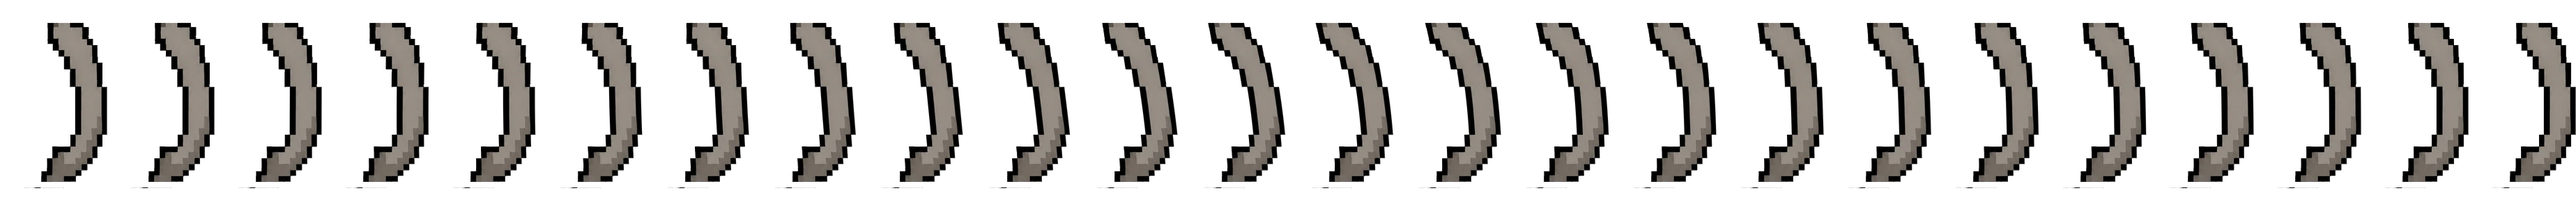
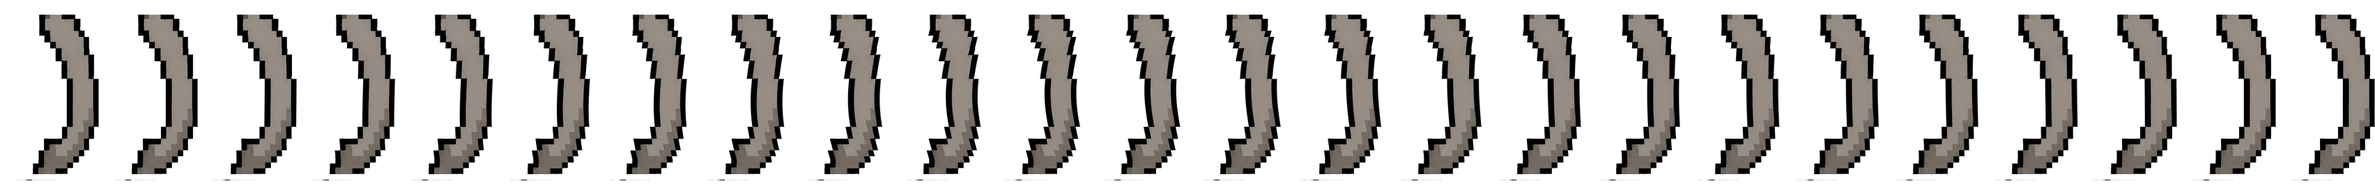
fix(tail): both ends of this tail are joints, and the bend was swinging one of them
"the top of his tail is cut". It was. ErenCook_tail.png is a C whose two ends
DISAPPEAR BEHIND THE BODY, so both are flat cuts with no outline on them, and
each reads as closed only because the body's silhouette sits directly over it --
ErenCook_notail.png has a shelf at rows 783..786 spanning x701..890 that caps the
top cut at row 787, and the body caps the bottom cut from below the same way.

The bake treated the top as a free tip and gave it the maximum travel. At AMP=58
the top slid 58px left along its own seam, out from under the shelf, and the cut
showed for what it is: a straight edge with no outline, sitting in the
background. Anatomically the top IS the tip of a curled tail; as art it is a
joint, and the art wins.

Worth recording why the rigid CSS rotation this replaced never showed it: a
rotation about a pivot far below moves the top UP as well as sideways, INTO the
body, so the joint buries itself deeper. Simulated on all four butt-jointed
sprites (Bell, Vet, BathroomHat, Cook) -- every one stays 100% capped under
-8deg. A pure horizontal shear has no such luck: it slides the joint ALONG its
seam, which is the one direction that uncovers it. So this was a defect the new
technique introduced, not one it inherited.

The free part of this tail is neither end but the bulge between them, so the
profile is now a bump: hard zero for 40 rows at each joint, peaking at the
middle of the arc (row 1015), which is also where the C reaches furthest out and
[…]

Changed region(s): [[0.0, 0.0571, 1.0, 0.9143], [0.0, 0.2571, 0.0311, 0.3429]]

diff --git a/src/lib/erenAnim.ts b/src/lib/erenAnim.ts
@@ -55,10 +55,10 @@ export const EREN_ANIM = {
     frames: 24,
     durationMs: 3400,
     kind: 'loop',
-    frameW: 154,
-    frameH: 304,
+    frameW: 142,
+    frameH: 280,
     canvas: [959, 1536],
-    rect: { left: 67.9875, top: 46.9401, width: 32.0125, height: 39.5833 },
+    rect: { left: 70.4901, top: 48.5026, width: 29.5099, height: 36.4583 },
     bodySrc: '/ErenCook_notail.png',
     note: 'Tail bends instead of swinging: root glued, curvature accumulates to the tip, tip lags 476ms and follows through. Baked rhythm runs +7.6% late vs @keyframes erenTailWiggle (tip peaks at 47.6% of the loop, not 40%) because the per-row time remap squeezes the sway into 84% of the cycle. Harmless alone; do not show this against a flat-PNG cat still running the CSS rotation, or the two will beat.',
   },

diff --git a/scripts/anim_tail.py b/scripts/anim_tail.py
@@ -73,16 +73,23 @@ import anim_lib as L
 
 
 # -- tuning ----------------------------------------------------------------
-# AMP is peak tip travel in SOURCE px. The old rigid rotation gave 63.2; 58 is
-# a hair calmer and still ~3.6 native blocks (16px/block) = 7.9 CSS px at the
-# kitchen's 7.3x downscale, so it stays well clear of both the ~1.1 CSS px
-# visibility floor and the rubbery zone above ~3 blocks... which is exactly
-# where the house amplitude already sits, deliberately.
-AMP = 58.0
-# 1.0 = the old rigid swing, 2.0 = constant curvature along the whole tail.
-# 1.55 glues the root, keeps the fat mid-tail clearly participating (s=0.5
-# still travels 19px = 2.6 CSS px) and puts the rest of the budget in the tip.
-POWER = 1.55
+# AMP is peak travel in SOURCE px, and it now lands at the MIDDLE of the arc,
+# not at an end -- see the profile in build(). 34px is ~2.1 native blocks =
+# 4.6 CSS px at the kitchen's 7.3x downscale: well clear of the ~1.1 CSS px
+# visibility floor, and deliberately below the old 58, because the old 58 was
+# spent dragging a butt-joint out from under the body's silhouette.
+AMP = 34.0
+# Shape of the bump between the two joints. 1.0 is a plain half-sine (broad,
+# the whole free span flexes); higher narrows the flex toward the middle. 1.0
+# keeps the outer curve of the C moving as one piece, which is what a tail
+# tucked at both ends actually does.
+POWER = 1.0
+# Rows held at EXACTLY zero at each joint before the bump is allowed to rise.
+# Both ends of this tail are flat cuts capped by the body's silhouette (the
+# shelf at rows 783..786 over the top cut, the body itself under the bottom
+# one), so a joint that moves at all starts showing its cut. 40 rows is ~2.5
+# native blocks of margin at each end.
+JOIN_MARGIN = 40.0
 # Onset lag from root to tip, as a fraction of the cycle: 0.14 * 3400ms = 476ms.
 LAG = 0.14
 # The sway is squeezed into (1 - HOLD) so every row is back at rest before the
@@ -137,10 +144,33 @@ def build():
     print('tail  canvas %dx%d  bbox %s  tip row %d  root row %d  (arc %d rows)'
           % (w, h, bbox, y_tip, y_root, y_root - y_tip))
 
-    # Arc position per row, and the curvature weight on it. row_ramp IS s**POWER
-    # with the same clipping, so the two stay consistent by construction.
+    # Arc position per row: 0 at the bottom join, 1 at the top join.
     s = np.clip((np.arange(h, dtype=np.float64) - y_root) / float(y_tip - y_root), 0.0, 1.0)
-    weight = L.row_ramp(h, y_root, y_tip, POWER)
+
+    # BOTH ENDS OF THIS TAIL ARE JOINTS, and that decides the whole profile.
+    #
+    # The first build used a monotonic ramp -- glued at the bottom, maximum at
+    # the top -- on the reading that the top is the free tip of a curled tail.
+    # Anatomically that is right; as ART it is wrong, and it shipped a visible
+    # defect. The artist drew this tail as a C whose two ends DISAPPEAR BEHIND
+    # THE BODY, so both ends are flat cuts, and each is invisible only because
+    # the body's silhouette sits directly over it. ErenCook_notail.png has a
+    # shelf at rows 783..786 spanning x701..890 that caps the tail's flat top
+    # at row 787, and the body caps the bottom cut from below the same way.
+    # Move a cut out from under its cap and you get exactly what it is: a
+    # straight edge with no outline, hanging in the background. At AMP=58 the
+    # top slid 58px left, out past the shelf's left end, and the cut showed as
+    # a horizontal bar on the left of the tail.
+    #
+    # So the free part of this tail is neither end -- it is the BULGE between
+    # them. The profile is a bump: hard zero for JOIN_MARGIN rows at each joint,
+    # rising to a peak at the middle of the arc, which is also where the C
+    # reaches furthest out (x957 at rows 997..1087) and where a flex reads best.
+    # The LAG below still travels the bump along the arc, so it flexes like a
+    # tail instead of breathing like a bellows.
+    mrg = JOIN_MARGIN / abs(float(y_root - y_tip))
+    q = np.clip((s - mrg) / (1.0 - 2.0 * mrg), 0.0, 1.0)
+    weight = np.sin(np.pi * q) ** POWER
 
     frames, fields = [], []
     for i in range(FRAMES):
@@ -249,30 +279,46 @@ def verify(tail, body, crops, fields, rect, weight, y_tip, y_root):
     print('  dx <= 0 on every frame/row (inward only)')
 
     m0 = crops[0][..., 3].sum()
-    print('  %-3s %10s %10s %10s %10s' % ('f', 'max|dx|', 'tip dx', 'root dx', 'mass drift'))
-    worst_drift, worst_root = 0.0, 0.0
+    print('  %-3s %10s %10s %10s %10s' % ('f', 'max|dx|', 'top-join', 'bot-join', 'mass drift'))
+    worst_drift, worst_joint = 0.0, 0.0
+    # Both joints, over the whole margin band -- not just the single end row.
+    # The cut that showed in the first build was at row 787; a check that only
+    # read row 787 would have passed a field that moved row 800 by 50px and
+    # torn the joint open just as visibly.
+    top_band = slice(y_tip, int(y_tip + JOIN_MARGIN))
+    bot_band = slice(int(y_root - JOIN_MARGIN), y_root + 1)
     for i, (c, f) in enumerate(zip(crops, fields)):
         drift = (c[..., 3].sum() - m0) / m0 * 100.0
         worst_drift = max(worst_drift, abs(drift))
-        worst_root = max(worst_root, abs(f[y_root]))
+        worst_joint = max(worst_joint, abs(f[top_band]).max(), abs(f[bot_band]).max())
         print('  %-3d %10.2f %10.2f %10.2f %9.3f%%'
               % (i, abs(f).max(), f[y_tip], f[y_root], drift))
-    print('  worst alpha-mass drift %.3f%%   worst root-row |dx| %.2fpx (%.2f CSS px)'
-          % (worst_drift, worst_root, worst_root / DISPLAY_SCALE))
+    print('  worst alpha-mass drift %.3f%%   worst |dx| anywhere in either %gpx joint band: '
+          '%.4fpx (%.4f CSS px)'
+          % (worst_drift, JOIN_MARGIN, worst_joint, worst_joint / DISPLAY_SCALE))
     assert worst_drift < 1.0, 'lost content off the canvas'
+    # THE assertion this animation exists to keep. Both ends of the tail are
+    # flat cuts that only read as closed because the body's silhouette caps
+    # them; move a joint and the cut shows as a bare straight edge in the
+    # background. Held at zero, not merely small.
+    assert worst_joint < 1e-9, (
+        'a joint band moved %.3f px -- the tail is butt-joined to the body at '
+        'BOTH ends and a moving joint exposes its flat cut' % worst_joint)
+    print('  both joint bands are held at EXACTLY zero on every frame')
 
     # Per-frame tip STEP, in the unit the eye judges. Printed, not asserted:
     # steps(24) spaces frames uniformly in TIME, but sway() is flat at both ends
     # of its smoothstep, so the ends genuinely cost frames that barely move.
     # That is the price of a uniform steps() timeline and it is paid knowingly --
     # see the rejected note in the writeup.
-    tips = [f[y_tip] / DISPLAY_SCALE for f in fields]
+    peak_y = int(np.argmax(weight))
+    tips = [f[peak_y] / DISPLAY_SCALE for f in fields]
     steps = [abs(tips[(i + 1) % FRAMES] - tips[i]) for i in range(FRAMES)]
-    print('  tip position per frame (CSS px): %s'
+    print('  peak-row position per frame (CSS px): %s'
           % ' '.join('%.2f' % v for v in tips))
-    print('  tip STEP f->f+1 (CSS px):        %s'
+    print('  peak-row STEP f->f+1 (CSS px):    %s'
           % ' '.join('%.2f' % v for v in steps))
-    print('  %d of %d steps move the tip less than 0.25 CSS px (sub-pixel at ship size)'
+    print('  %d of %d steps move the peak row less than 0.25 CSS px (sub-pixel at ship size)'
           % (sum(1 for v in steps if v < 0.25), FRAMES))
 
     # Border alpha is asserted on the EXPORTED frames, not here -- see
@@ -285,8 +331,10 @@ def verify(tail, body, crops, fields, rect, weight, y_tip, y_root):
     print('  max alpha on the pre-downscale crop border: %.1f (the real check is below)' % pre)
 
     # Amplitude sanity in the units the brief is written in.
-    print('  peak tip travel %.1f source px = %.2f CSS px = %.2f native blocks'
-          % (AMP, AMP / DISPLAY_SCALE, AMP / 16.0))
+    print('  peak travel %.1f source px = %.2f CSS px = %.2f native blocks, at row %d '
+          '(s=%.2f) -- the middle of the free arc, NOT an end'
+          % (AMP, AMP / DISPLAY_SCALE, AMP / 16.0, peak_y,
+             (peak_y - y_root) / float(y_tip - y_root)))
     for frac in (0.25, 0.50, 0.75, 1.00):
         y = int(round(y_root - frac * (y_root - y_tip)))
         print('    s=%.2f (y=%4d)  travel %5.1f src px  %.2f CSS px'
